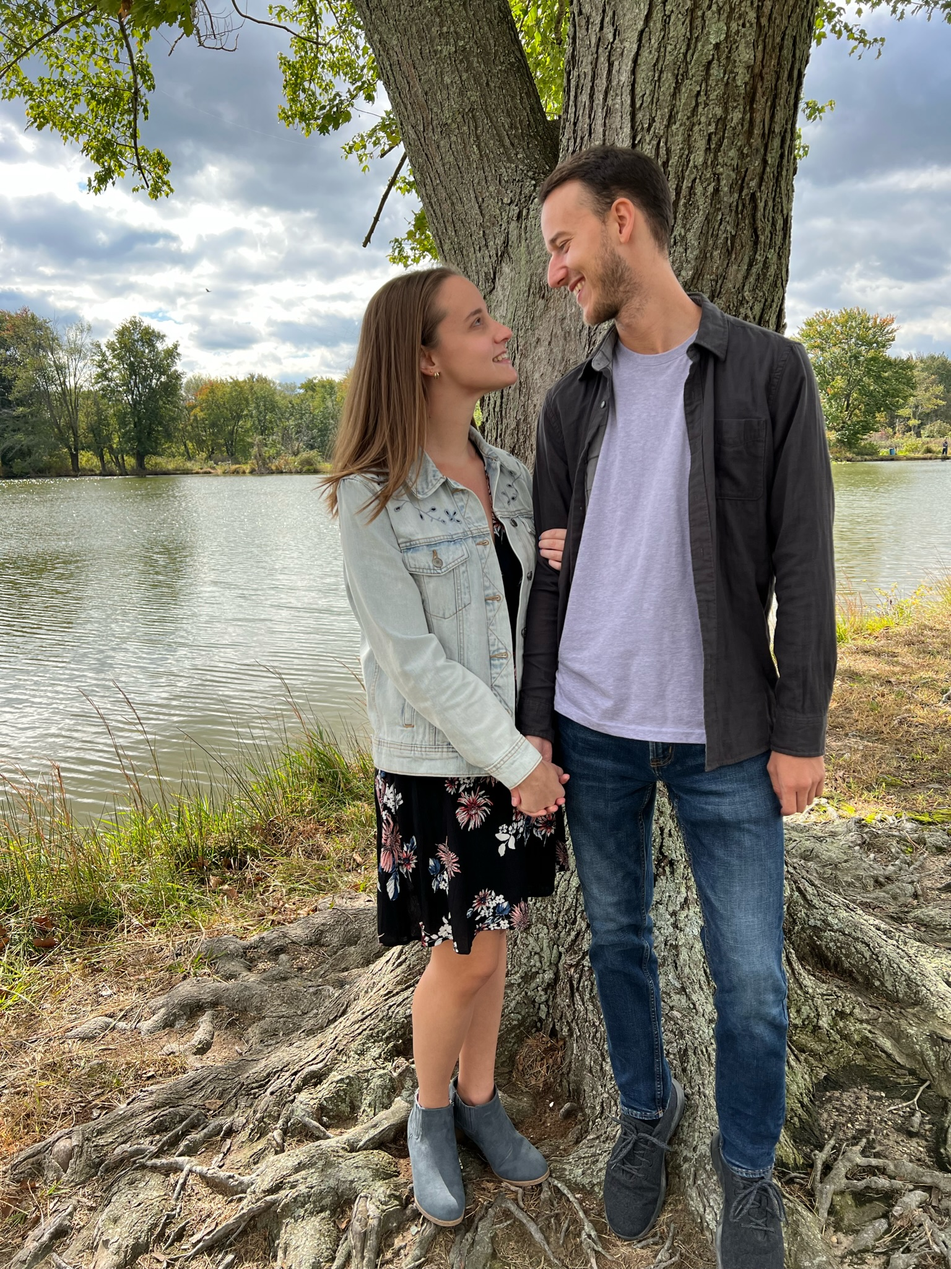
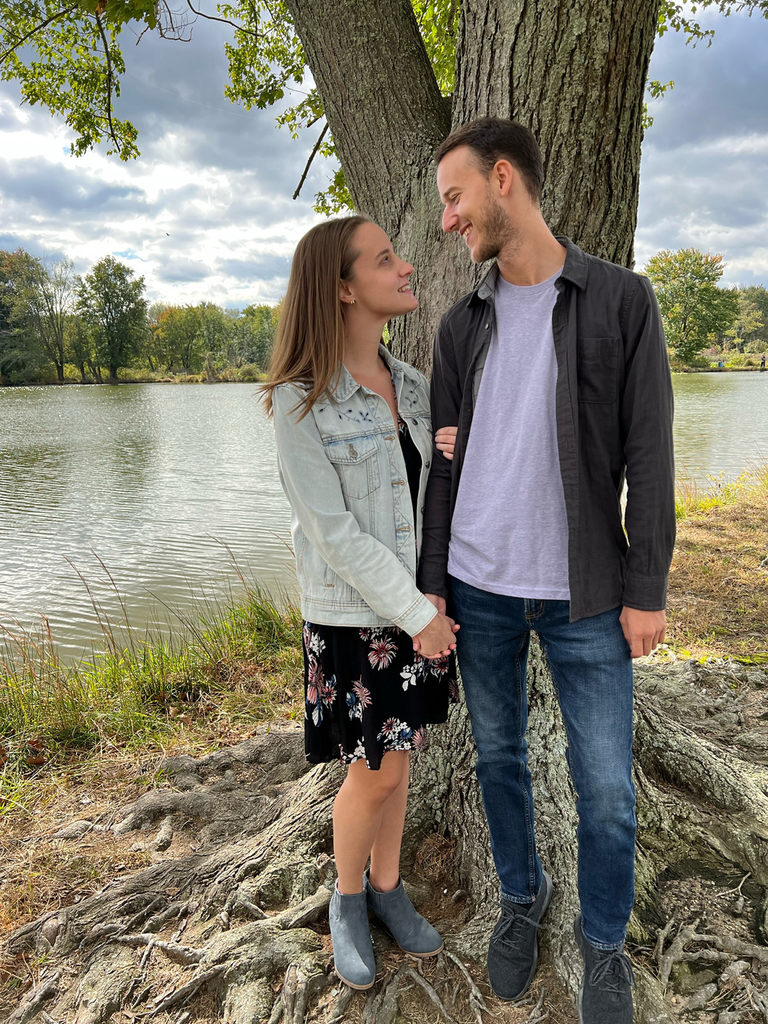
copy changes, smaller images

diff --git a/index.html b/index.html
@@ -17,6 +17,8 @@
         rel="stylesheet">
 
     <link href="https://fonts.googleapis.com/icon?family=Material+Icons"rel="stylesheet">
+
+    <link rel="icon" type="image/svg+xml" href="images/favicons-61.svg"/>
 </head>
 
 <body>
@@ -38,7 +40,7 @@
                 </nav>
                 <h1>Celebrate <br> with us!</h1>
                 <img class="badge" src="images/badge.svg" alt="Colorado badge">
-                <p>We plan to elope in Brekenridge, Colorado on July 7th, 2022.</p>
+                <p>We plan to elope to Brekenridge, Colorado on July 7th, 2022.</p>
                 <p> Although we won’t be able to celebrate with you during that time, we hope you can make it to our post-elopement party to celebrate with us a month later.</p>
                 <span class="material-icons">expand_more</span>
             </div>
@@ -140,10 +142,17 @@
                     </div>
                     <p>We suggest Hotel Warner. It is a 3 minute walk from the venue. However, there are several other hotel options close by. Click the hotel names below to check availability.</p>
 
-                    <div class="address">
-                        <a href="https://be.synxis.com/?adult=2&arrive=2022-08-06&chain=56&child=0&currency=USD&depart=2022-08-07&hotel=61838&level=hotel&locale=en-US&rooms=1&shell=rPHLHW&template=rPHLHWD">Hotel Warner</a>
-                        <p>120 N High St.</p>
-                        <p>West Chester, PA 19380</p>
+                    <div class="address-grid">
+                        <div class="address">
+                            <a href="https://be.synxis.com/?adult=2&arrive=2022-08-06&chain=56&child=0&currency=USD&depart=2022-08-07&hotel=61838&level=hotel&locale=en-US&rooms=1&shell=rPHLHW&template=rPHLHWD">Hotel Warner</a>
+                            <p>120 N High St.</p>
+                            <p>West Chester, PA 19380</p>
+                        </div>
+                        <div class="address">
+                            <a href="https://www.choicehotels.com/pennsylvania/west-chester/quality-inn-hotels/pa636">Quality Inn & Suites</a>
+                            <p>943 S High St</p>
+                            <p>West Chester, PA 19382</p>
+                        </div>
                     </div>
 
                 </div>
@@ -152,12 +161,13 @@
                         <h3>Parking</h3>
                         <img src="images/icons/parking.svg" alt="">
                     </div>
-                    <p>There is a parking garage next to the venue. It is  $6.00 for 4 hours.</p>
+                    <p>There is a parking garage next to the venue.</p>
                     <div class="address">
-                        <p>Bicentennial Parking Facility</p>
+                        <a href="https://www.google.com/maps/place/Bicentennial+Parking+Facility+-+Lot+%23136/@39.9590376,-75.6043639,16.35z/data=!4m5!3m4!1s0x0:0xc648815ad3cb367c!8m2!3d39.9590977!4d-75.604377">Bicentennial Parking Facility</a>
                         <p>20 S High St.</p>
                         <p>West Chester, PA 19382</p>
                     </div>
+                    <p>If you are staying at the Hotal Warner, you can park in accordance with the hotal and walk over. If you are staying at another hotal further away, you can park at the hotal and Uber over.</p>
                 </div>
                 <div class="faq-section">
                     <div class="faq-card-heading">
@@ -196,7 +206,7 @@
                         <h3>Adults Only</h3>
                         <img src="images/icons/adults-only.svg" alt="">
                     </div>
-                    <p>Our party is going to be an adults-only event so that everyone can enjoy the evening. We appreciate you making arrangements ahead of time and leaving the kids at home so you can celebrate with us!</p>
+                    <p>Our party is going to be an adults-only event so that everyone can enjoy the evening. We appreciate you making arrangements ahead of time and leaving the children at home so you can celebrate with us!</p>
                 </div>
                 <div class="faq-section">
                     <div class="faq-card-heading">

diff --git a/style.css b/style.css
@@ -252,9 +252,6 @@ INFO SECTION
 FORM
 =========================================*/
 
-.form-grid{
-    
-}
 
 form{
     grid-area: form;
@@ -313,6 +310,11 @@ input[type=submit]{
     color: white;
     width: 100%;
     max-width: 300px;
+    cursor: pointer;
+}
+
+input[type=submit]:hover{
+    background-color: var(--pink);
 }
 
 .form-img{
@@ -320,7 +322,7 @@ input[type=submit]{
     background-image: url('/images/ben-sophie2.JPG');
 }
 
-@media screen and (min-width: 650px) {
+@media screen and (min-width: 800px) {
     .form-grid{
         display: grid;
         grid-template-areas:
@@ -330,6 +332,9 @@ input[type=submit]{
         ;
         grid-template-columns: 10% 1fr 1fr 10% 1fr 1fr 10%;
         grid-template-rows: 32px auto 32px;
+
+        padding-left: 32px;
+        padding-right: 32px;
     }
 
     form{
@@ -345,8 +350,6 @@ FAQ SECTION
     padding-right: 32px;
     padding-left: 32px;
 }
-
-
 
 .faq-grid{
     display: grid;
@@ -383,6 +386,12 @@ FAQ SECTION
     margin: 16px 0;
 }
 
+.address-grid{
+    display: grid;
+    grid-template-columns: 1fr;
+    gap: 0;
+}
+
 .address{
     margin: 16px 0;
 }
@@ -394,6 +403,13 @@ FAQ SECTION
 @media screen and (min-width: 650px) {
     .faq-grid{
         grid-template-columns: 1fr 1fr;
+    }
+}
+
+@media screen and (min-width: 1015px) {
+    .address-grid{
+        grid-template-columns: 1fr 1fr;
+        gap: 16px;
     }
 }
 
